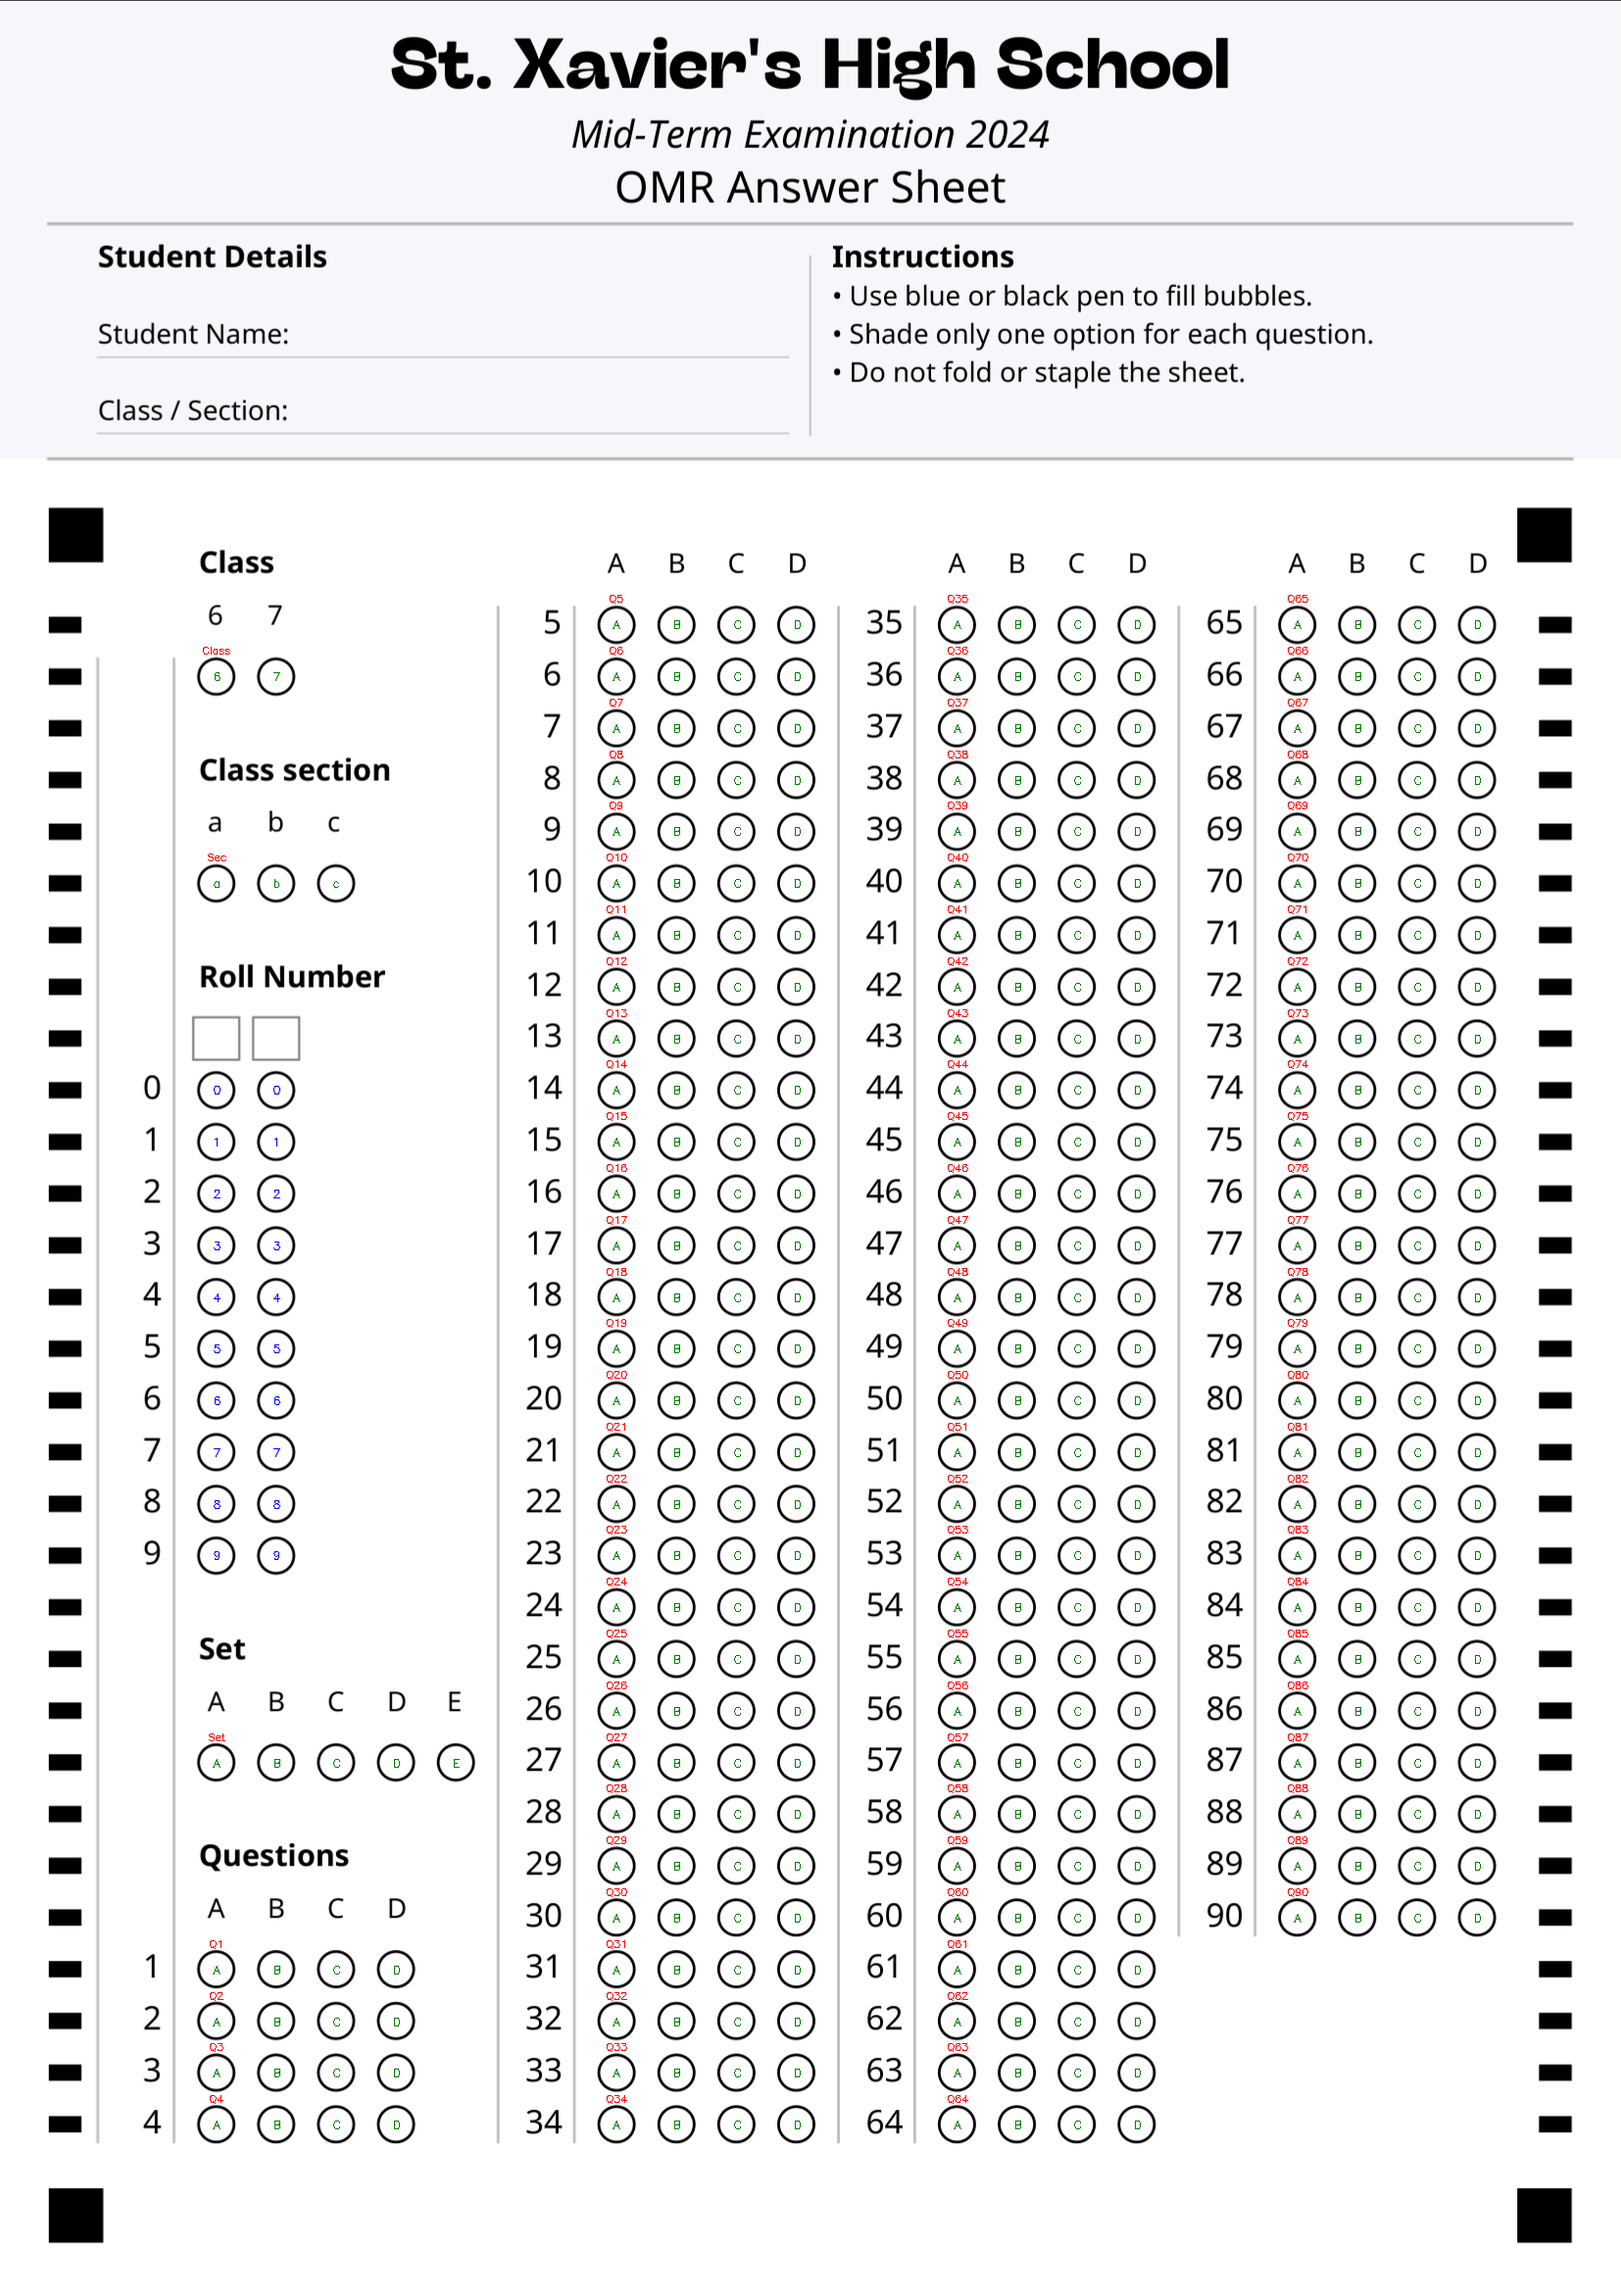
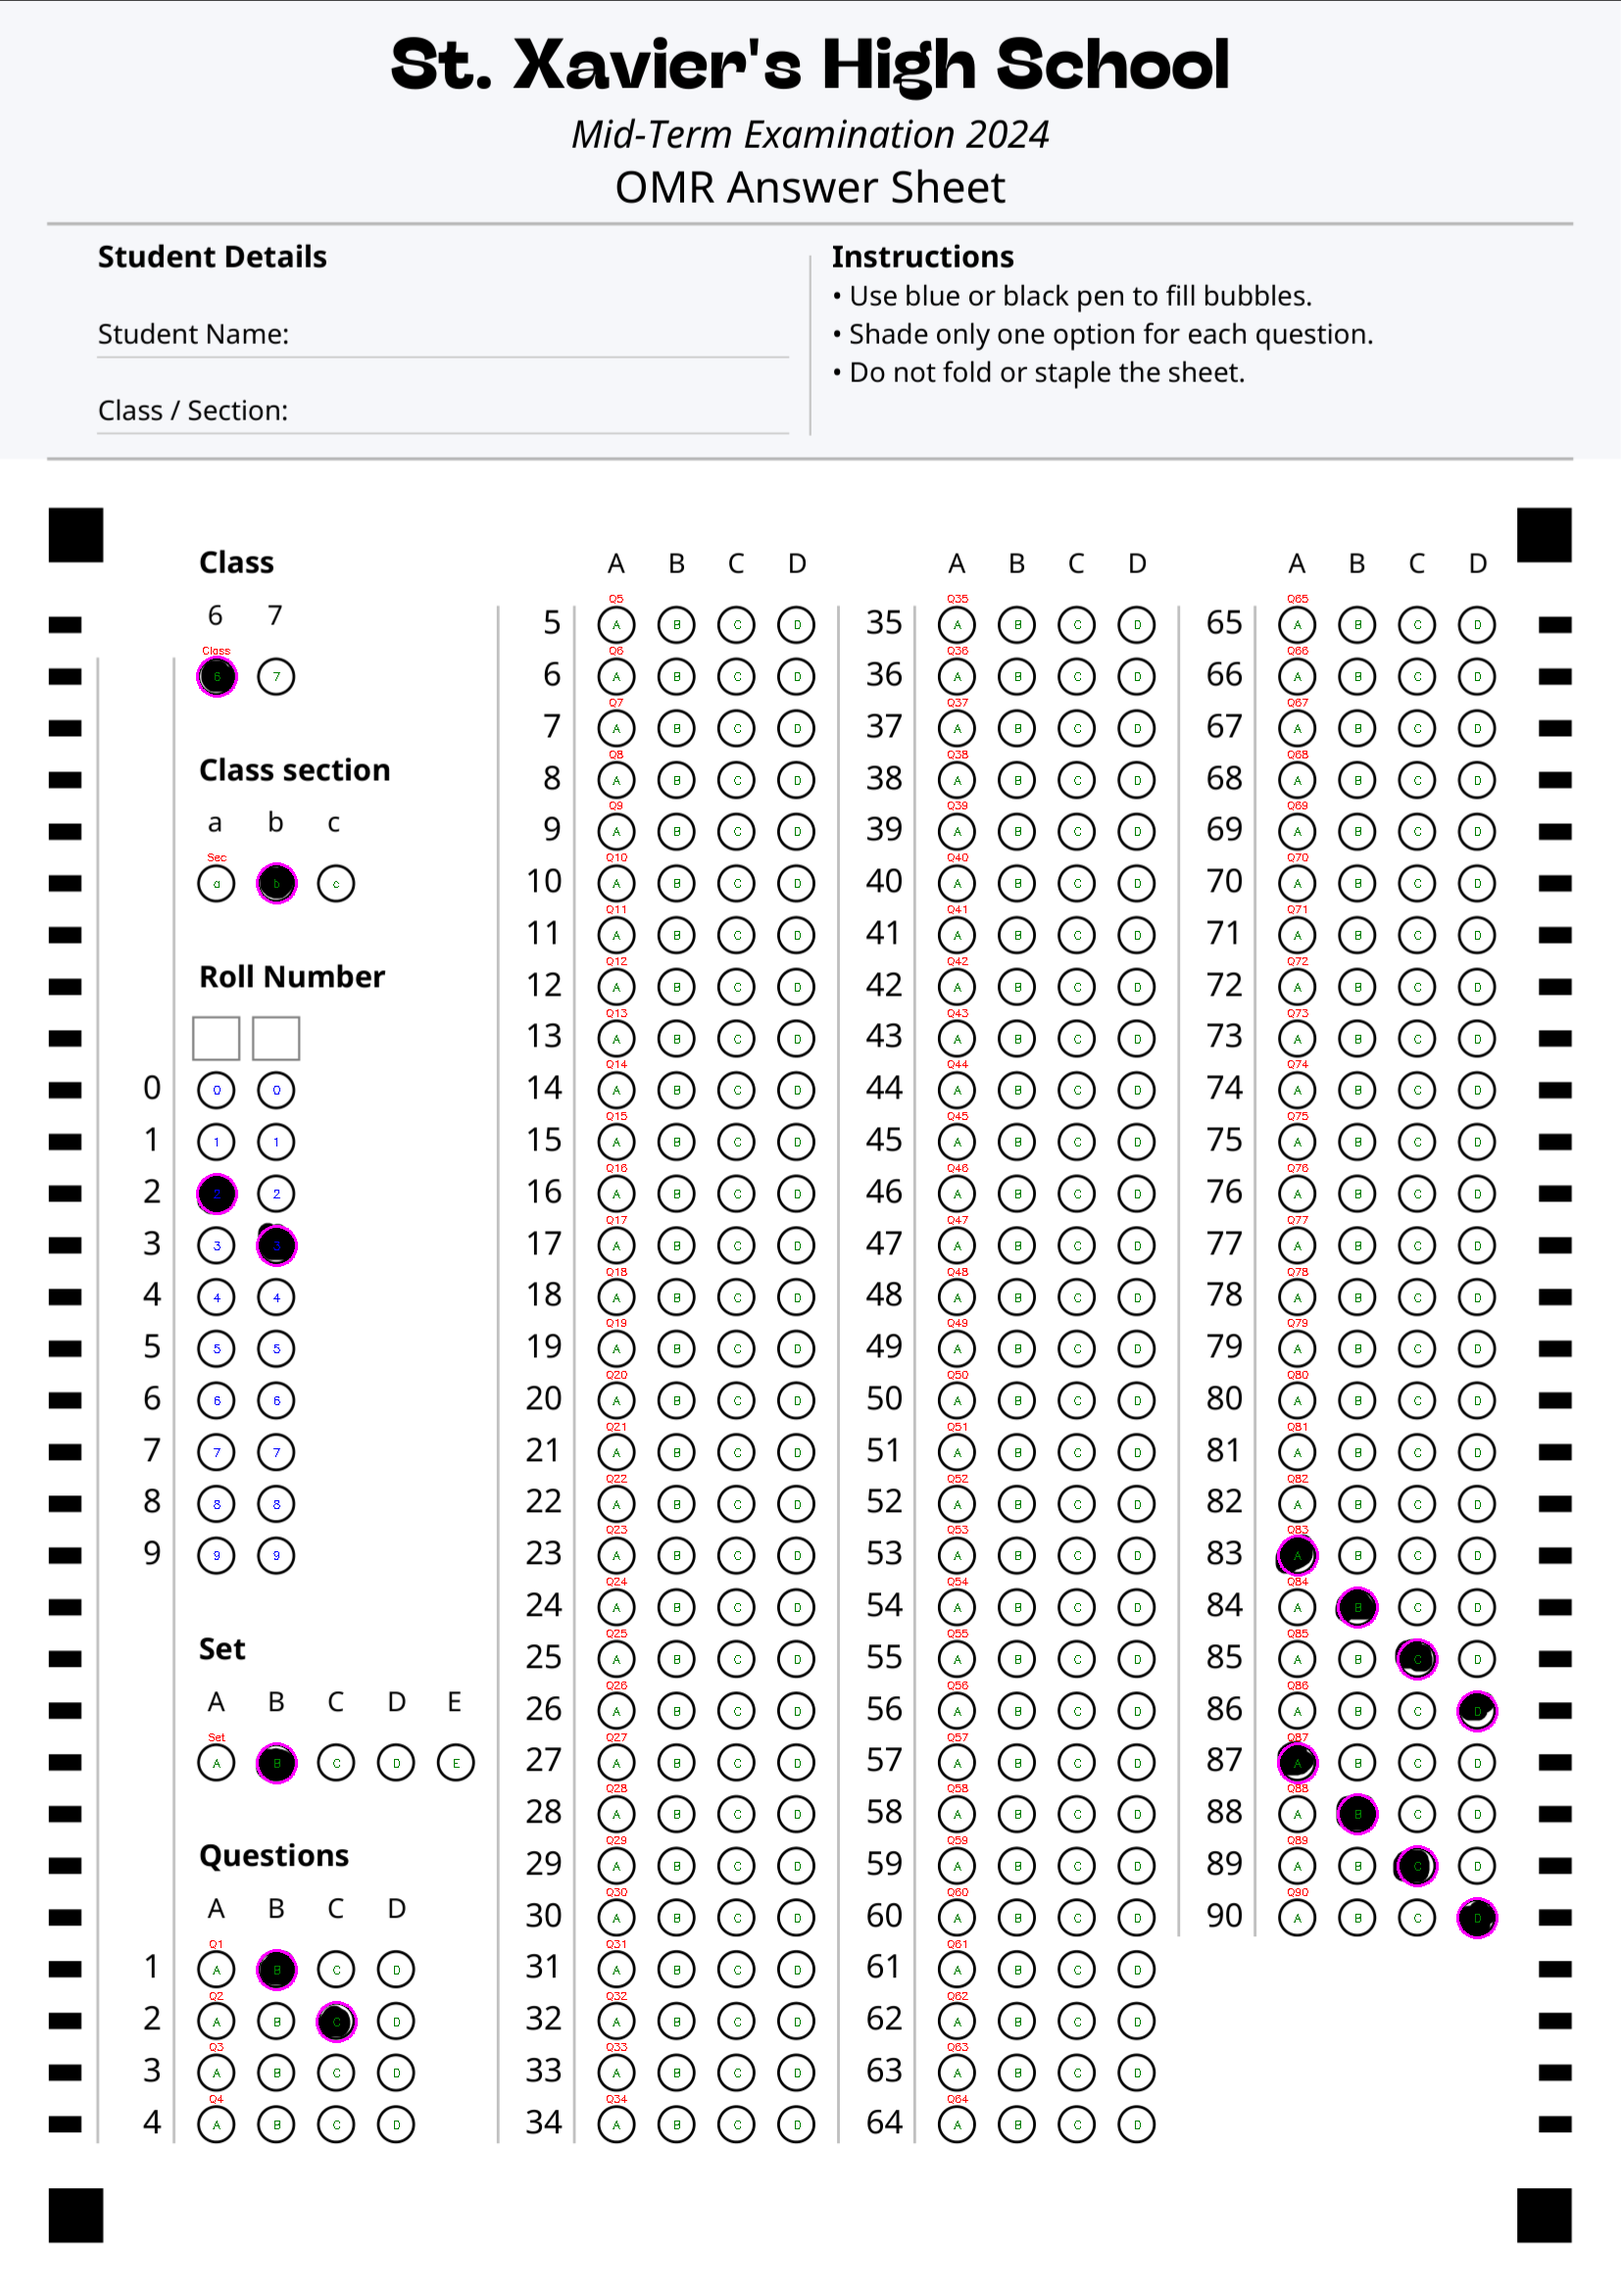
Add CSV export for OMR detection results
Export detected bubble fills to CSV file alongside processed image.
Each processed sheet generates a CSV file with the same name in the
processed/ directory.

CSV format (wide):
- One row per sheet
- Columns: filename, class, class_section, roll_number, set, Q1...Q90
- Multiple selections: comma-separated (e.g., A,C)
- Unfilled bubbles: BLANK
- Roll number: concatenated digits from each column

Changes:
- omr_processor.py: Add export_to_csv() function
- Extract filled bubbles by category (class, class_section, roll, set, questions)
- Handle roll number digit concatenation by column index
- Integrate CSV export into process_omr_sheet workflow
- .gitignore: Track processed_omr_sheet.csv file

diff --git a/omr_processor.py b/omr_processor.py
@@ -11,11 +11,12 @@ The processed images are saved to the ``processed/`` directory.
 """
 from __future__ import annotations
 
+import csv
 import cv2
 import numpy as np
 from dataclasses import dataclass
 from pathlib import Path
-from typing import List, Optional, Tuple
+from typing import List, Optional, Tuple, Dict
 
 from omr_config import PageGeometry, BubbleLayout, MarkerConfig, SheetLayout
 from omr_layout import (
@@ -685,6 +686,109 @@ def overlay_labels(image: np.ndarray, group_samples: List[BubbleGroupSample]) ->
     return output
 
 
+def export_to_csv(
+    filename: str,
+    group_samples: List[GroupSample],
+    csv_path: Path,
+    sheet: SheetLayout,
+) -> None:
+    """Export detected bubble fills to CSV file.
+
+    Args:
+        filename: Name of the source image file
+        group_samples: List of bubble group samples with detection results
+        csv_path: Path where CSV file will be saved
+        sheet: Sheet layout configuration for determining max questions
+    """
+    # Organize results by category
+    results: Dict[str, str] = {}
+    results["filename"] = filename
+
+    # Initialize all fields to BLANK
+    results["class"] = "BLANK"
+    results["class_section"] = "BLANK"
+    results["roll_number"] = "BLANK"
+    results["set"] = "BLANK"
+
+    for sample in group_samples:
+        category = sample.group.category
+        filled_labels = [
+            detection.layout.label
+            for detection in sample.detections
+            if detection.bubble.is_filled
+        ]
+
+        if category == "class":
+            # Single selection expected
+            results["class"] = filled_labels[0] if filled_labels else "BLANK"
+
+        elif category == "class_section":
+            # Single selection expected
+            results["class_section"] = filled_labels[0] if filled_labels else "BLANK"
+
+        elif category == "roll":
+            # Multiple columns - organize digits by column index
+            if "roll_digits" not in results:
+                results["roll_digits"] = {}
+            for detection in sample.detections:
+                if detection.bubble.is_filled:
+                    col_idx = detection.layout.index
+                    if col_idx not in results["roll_digits"]:
+                        results["roll_digits"][col_idx] = []
+                    results["roll_digits"][col_idx].append(detection.layout.label)
+
+        elif category == "set":
+            # Single selection expected
+            results["set"] = filled_labels[0] if filled_labels else "BLANK"
+
+        elif category == "question":
+            # Question number from display_label
+            q_num = sample.group.display_label
+            # Multiple selections allowed - comma-separated
+            if filled_labels:
+                results[f"Q{q_num}"] = ",".join(filled_labels)
+            else:
+                results[f"Q{q_num}"] = "BLANK"
+
+    # Concatenate roll number digits by column order
+    if "roll_digits" in results:
+        if results["roll_digits"]:
+            # Sort by column index and concatenate the first filled digit from each column
+            digit_parts = []
+            for col_idx in sorted(results["roll_digits"].keys()):
+                digits = results["roll_digits"][col_idx]
+                # Use first filled digit if multiple (shouldn't happen but handle it)
+                digit_parts.append(digits[0] if digits else "")
+            results["roll_number"] = "".join(digit_parts) if digit_parts else "BLANK"
+        else:
+            results["roll_number"] = "BLANK"
+        del results["roll_digits"]
+    else:
+        results["roll_number"] = "BLANK"
+
+    # Determine max questions from sheet config
+    max_q = sheet.max_questions if sheet.max_questions else 50
+
+    # Build CSV header
+    header = ["filename", "class", "class_section", "roll_number", "set"]
+    header.extend([f"Q{i}" for i in range(1, max_q + 1)])
+
+    # Fill missing question columns with BLANK
+    for i in range(1, max_q + 1):
+        key = f"Q{i}"
+        if key not in results:
+            results[key] = "BLANK"
+
+    # Write CSV
+    csv_path.parent.mkdir(parents=True, exist_ok=True)
+    with open(csv_path, 'w', newline='', encoding='utf-8') as f:
+        writer = csv.DictWriter(f, fieldnames=header)
+        writer.writeheader()
+        writer.writerow(results)
+
+    print(f"Saved CSV results to {csv_path}")
+
+
 def process_omr_sheet(
     input_path: Path,
     output_path: Path,
@@ -770,10 +874,14 @@ def process_omr_sheet(
     # Overlay labels
     labeled = overlay_labels(corrected, group_samples)
 
-    # Save output
+    # Save output image
     output_path.parent.mkdir(parents=True, exist_ok=True)
     cv2.imwrite(str(output_path), labeled)
     print(f"Saved processed image to {output_path}")
+
+    # Export results to CSV
+    csv_path = output_path.with_suffix('.csv')
+    export_to_csv(input_path.name, group_samples, csv_path, sheet)
 
     return True
 
